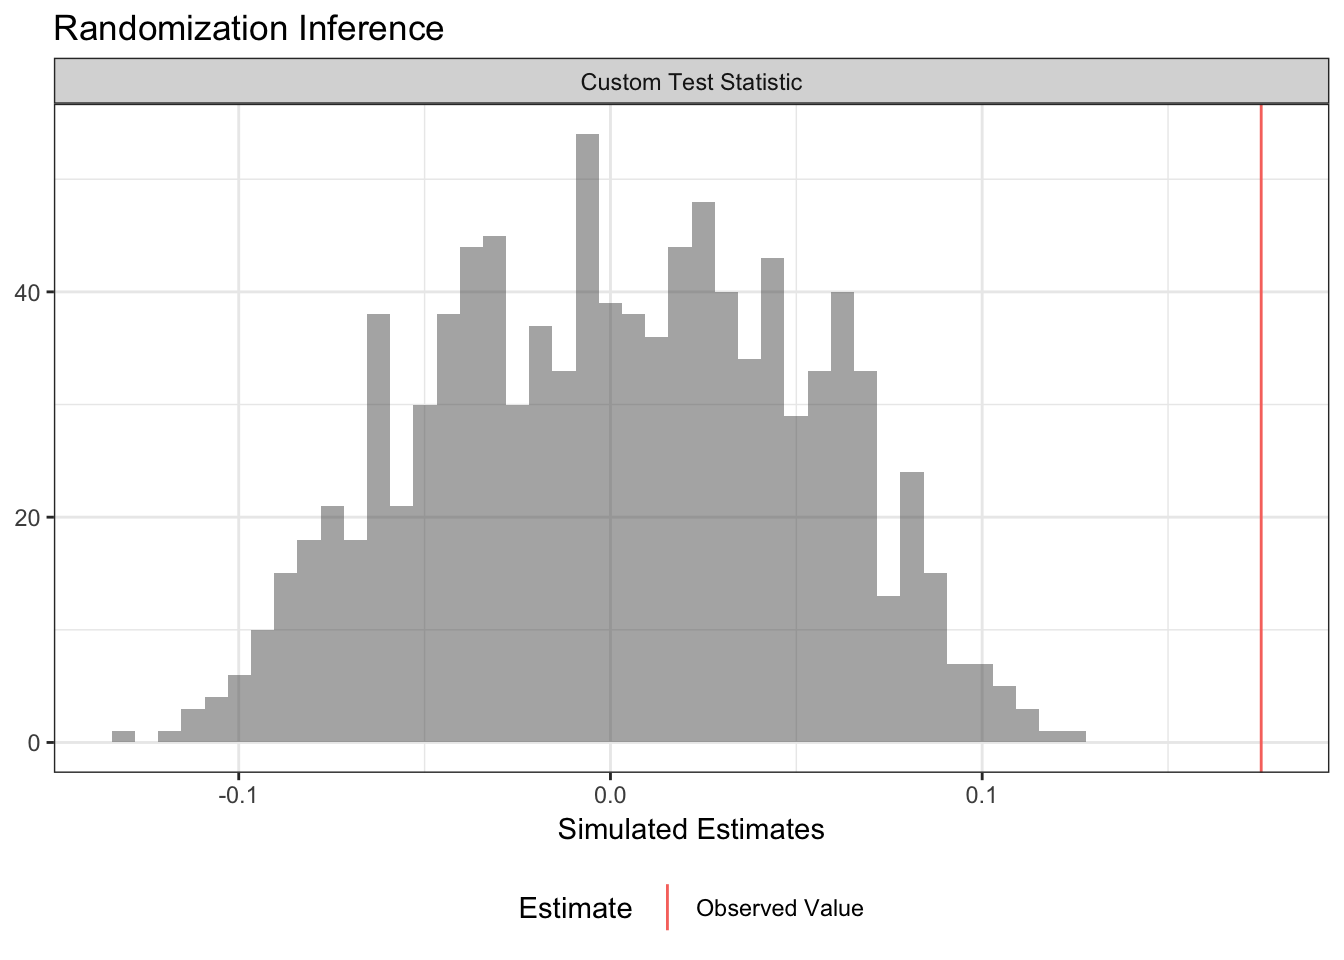
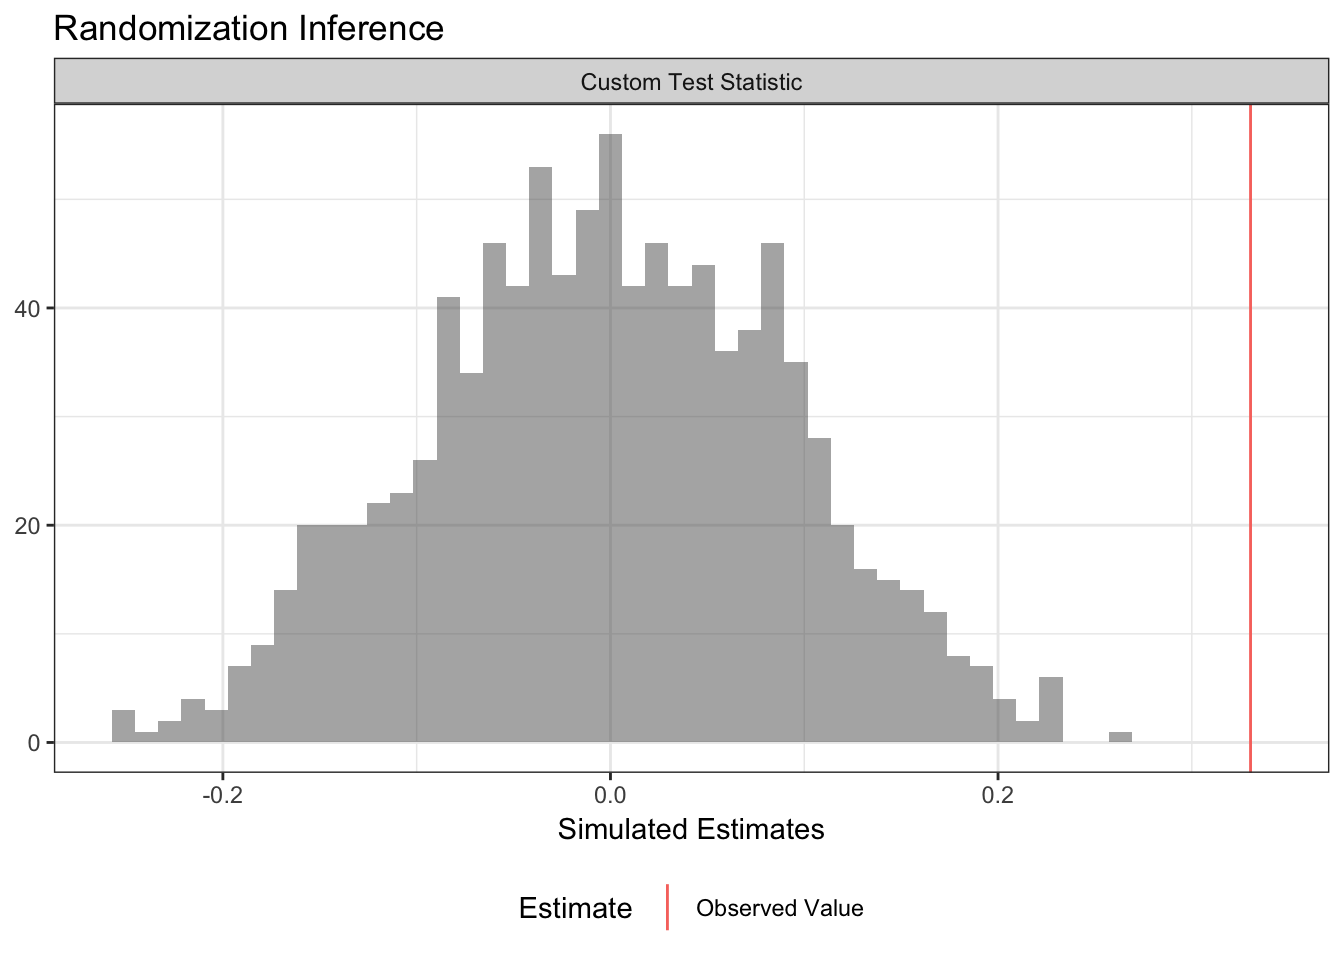
pkgdown

diff --git a/docs/articles/ri2_vignette.html b/docs/articles/ri2_vignette.html
@@ -204,9 +204,9 @@ ri2_out &lt;-
 <p><img src="ri2_vignette_files/figure-html/unnamed-chunk-4-1.png" width="672"></p>
 <div class="sourceCode"><pre class="sourceCode r"><code class="sourceCode r"><span class="kw">summary</span>(ri2_out)</code></pre></div>
 <pre><code>## # A tibble: 1 x 5
-##   coefficient estimate p_value null_ci_lower null_ci_upper
-##        &lt;fctr&gt;    &lt;dbl&gt;   &lt;dbl&gt;         &lt;dbl&gt;         &lt;dbl&gt;
-## 1 F-statistic 1.013715   0.383     0.0262644      3.842811</code></pre>
+##   coefficient   estimate p_value null_ci_lower null_ci_upper
+##        &lt;fctr&gt;      &lt;dbl&gt;   &lt;dbl&gt;         &lt;dbl&gt;         &lt;dbl&gt;
+## 1 F-statistic 0.07511485   0.929    0.03322868      3.886131</code></pre>
 <div class="sourceCode"><pre class="sourceCode r"><code class="sourceCode r"><span class="co"># for comparison</span>
 <span class="kw">anova</span>(<span class="kw">lm</span>(Y ~<span class="st"> </span><span class="dv">1</span>, <span class="dt">data =</span> df), 
       <span class="kw">lm</span>(Y ~<span class="st"> </span>Z, <span class="dt">data =</span> df))</code></pre></div>
@@ -215,8 +215,8 @@ ri2_out &lt;-
 ## Model 1: Y ~ 1
 ## Model 2: Y ~ Z
 ##   Res.Df    RSS Df Sum of Sq      F Pr(&gt;F)
-## 1     99 90.258                           
-## 2     97 88.411  2    1.8479 1.0137 0.3667</code></pre>
+## 1     99 150.70                           
+## 2     97 150.46  2   0.23303 0.0751 0.9277</code></pre>
 </div>
 <div id="interaction-terms" class="section level2">
 <h2 class="hasAnchor">
@@ -234,7 +234,7 @@ df &lt;-<span class="st"> </span><span class="kw">data.frame</span>(X, Y, Z)
 ate_hat &lt;-<span class="st"> </span><span class="kw">coef</span>(<span class="kw">lm</span>(Y ~<span class="st"> </span>Z, <span class="dt">data =</span> df))[<span class="dv">2</span>]
 ate_hat</code></pre></div>
 <pre><code>##         Z 
-## 0.1140205</code></pre>
+## 0.4274541</code></pre>
 <div class="sourceCode"><pre class="sourceCode r"><code class="sourceCode r">ri2_out &lt;-
 <span class="st">  </span><span class="kw"><a href="../reference/conduct_ri.html">conduct_ri</a></span>(
     <span class="dt">model_1 =</span> Y ~<span class="st"> </span>Z +<span class="st"> </span>X, <span class="co"># restricted model</span>
@@ -250,7 +250,7 @@ ate_hat</code></pre></div>
 <pre><code>## # A tibble: 1 x 5
 ##   coefficient estimate p_value null_ci_lower null_ci_upper
 ##        &lt;fctr&gt;    &lt;dbl&gt;   &lt;dbl&gt;         &lt;dbl&gt;         &lt;dbl&gt;
-## 1 F-statistic 8.005271   0.001   0.001855848      4.457152</code></pre>
+## 1 F-statistic 7.279862   0.022    0.00085199      6.806784</code></pre>
 <div class="sourceCode"><pre class="sourceCode r"><code class="sourceCode r"><span class="co"># for comparison</span>
 <span class="kw">anova</span>(<span class="kw">lm</span>(Y ~<span class="st"> </span>Z +<span class="st"> </span>X, <span class="dt">data =</span> df),
       <span class="kw">lm</span>(Y ~<span class="st"> </span>Z +<span class="st"> </span>X +<span class="st"> </span>Z*X, <span class="dt">data =</span> df))</code></pre></div>
@@ -258,9 +258,9 @@ ate_hat</code></pre></div>
 ## 
 ## Model 1: Y ~ Z + X
 ## Model 2: Y ~ Z + X + Z * X
-##   Res.Df    RSS Df Sum of Sq      F   Pr(&gt;F)   
-## 1     97 92.566                                
-## 2     96 85.441  1    7.1248 8.0053 0.005679 **
+##   Res.Df     RSS Df Sum of Sq      F   Pr(&gt;F)   
+## 1     97 100.996                                
+## 2     96  93.877  1    7.1189 7.2799 0.008239 **
 ## ---
 ## Signif. codes:  0 '***' 0.001 '**' 0.01 '*' 0.05 '.' 0.1 ' ' 1</code></pre>
 </div>
@@ -287,7 +287,7 @@ test_fun &lt;-<span class="st"> </span>function(data) {
 
 <span class="co"># confirm it works</span>
 <span class="kw">test_fun</span>(df)</code></pre></div>
-<pre><code>## [1] 0.1750617</code></pre>
+<pre><code>## [1] 0.3303045</code></pre>
 <div class="sourceCode"><pre class="sourceCode r"><code class="sourceCode r">ri2_out &lt;-
 <span class="kw"><a href="../reference/conduct_ri.html">conduct_ri</a></span>(
   <span class="dt">test_function =</span> test_fun,
@@ -304,7 +304,7 @@ test_fun &lt;-<span class="st"> </span>function(data) {
 <pre><code>## # A tibble: 1 x 5
 ##             coefficient  estimate p_value null_ci_lower null_ci_upper
 ##                  &lt;fctr&gt;     &lt;dbl&gt;   &lt;dbl&gt;         &lt;dbl&gt;         &lt;dbl&gt;
-## 1 Custom Test Statistic 0.1750617       0   -0.08931922    0.09008413</code></pre>
+## 1 Custom Test Statistic 0.3303045       0    -0.1796312     0.1772805</code></pre>
 </div>
 <div id="balance-test" class="section level2">
 <h2 class="hasAnchor">
@@ -328,8 +328,8 @@ balance_fun &lt;-<span class="st"> </span>function(data) {
 
 <span class="co"># Confirm it works!</span>
 <span class="kw">balance_fun</span>(df)</code></pre></div>
-<pre><code>##    value 
-## 1.534802</code></pre>
+<pre><code>##     value 
+## 0.6289607</code></pre>
 <div class="sourceCode"><pre class="sourceCode r"><code class="sourceCode r">ri2_out &lt;-
 <span class="st">  </span><span class="kw"><a href="../reference/conduct_ri.html">conduct_ri</a></span>(
   <span class="dt">test_function =</span> balance_fun,
@@ -344,9 +344,9 @@ balance_fun &lt;-<span class="st"> </span>function(data) {
 <p><img src="ri2_vignette_files/figure-html/unnamed-chunk-7-1.png" width="672"></p>
 <div class="sourceCode"><pre class="sourceCode r"><code class="sourceCode r"><span class="kw">summary</span>(ri2_out)</code></pre></div>
 <pre><code>## # A tibble: 1 x 5
-##             coefficient estimate p_value null_ci_lower null_ci_upper
-##                  &lt;fctr&gt;    &lt;dbl&gt;   &lt;dbl&gt;         &lt;dbl&gt;         &lt;dbl&gt;
-## 1 Custom Test Statistic 1.534802   0.206    0.08059371      2.936468</code></pre>
+##             coefficient  estimate p_value null_ci_lower null_ci_upper
+##                  &lt;fctr&gt;     &lt;dbl&gt;   &lt;dbl&gt;         &lt;dbl&gt;         &lt;dbl&gt;
+## 1 Custom Test Statistic 0.6289607   0.606    0.07672795      3.465091</code></pre>
 <div class="sourceCode"><pre class="sourceCode r"><code class="sourceCode r"><span class="co"># For comparison</span>
 <span class="kw">summary</span>(<span class="kw">lm</span>(Z ~<span class="st"> </span>X1 +<span class="st"> </span>X2 +<span class="st"> </span>X3, <span class="dt">data =</span> df))</code></pre></div>
 <pre><code>## 
@@ -355,20 +355,20 @@ balance_fun &lt;-<span class="st"> </span>function(data) {
 ## 
 ## Residuals:
 ##      Min       1Q   Median       3Q      Max 
-## -0.76756 -0.47923 -0.07091  0.46248  0.70067 
+## -0.65291 -0.48469  0.02257  0.48890  0.62866 
 ## 
 ## Coefficients:
-##             Estimate Std. Error t value Pr(&gt;|t|)    
-## (Intercept)  0.45038    0.10145   4.439 2.41e-05 ***
-## X1           0.01233    0.05023   0.245    0.807    
-## X2          -0.15874    0.10039  -1.581    0.117    
-## X3           0.04288    0.02664   1.610    0.111    
+##             Estimate Std. Error t value Pr(&gt;|t|)   
+## (Intercept)  0.38281    0.11417   3.353  0.00114 **
+## X1          -0.04629    0.05351  -0.865  0.38917   
+## X2           0.05515    0.10206   0.540  0.59018   
+## X3           0.03441    0.03108   1.107  0.27113   
 ## ---
 ## Signif. codes:  0 '***' 0.001 '**' 0.01 '*' 0.05 '.' 0.1 ' ' 1
 ## 
-## Residual standard error: 0.4985 on 96 degrees of freedom
-## Multiple R-squared:  0.04577,    Adjusted R-squared:  0.01595 
-## F-statistic: 1.535 on 3 and 96 DF,  p-value: 0.2105</code></pre>
+## Residual standard error: 0.5054 on 96 degrees of freedom
+## Multiple R-squared:  0.01928,    Adjusted R-squared:  -0.01137 
+## F-statistic: 0.629 on 3 and 96 DF,  p-value: 0.5981</code></pre>
 </div>
 </div>
 <div id="conclusion" class="section level1">

diff --git a/docs/reference/index.html b/docs/reference/index.html
@@ -111,25 +111,6 @@
         <tr>
           <!--  -->
           <td>
-            <p><code><a href="conduct_conditional_ra.html">conduct_conditional_ra</a></code> </p>
-          </td>
-          <td><p>#' Conduct Conditional Random Assignment
-#'
-#' Conditional random assignment is useful when conducting randomization inference in multi-arm trials. When conducting a hypothesis test under a sharp null hypothesis for a *pairwise* comparison, we want to consider only random assignments in which units assigned to *other* conditions remain in their original condidtions.
-#'
-#' For example, in a three-arm trial in which we want to conduct a hypothesis test under the sharp null hypothesis of exactly no difference in potential outcomes between conditions T1 and T2, we want to permute the random assignment for units that were assigned to T1 and T2, but we want to leave units assigned to T3 alone. We do this because our sharp null hypothesis does not say anything about potential outcomes under T3, so we do not want to have to imagine what the potential outcomes for units assigned to T3 *would have been* under alternative assignments.
-#'
-#' @param declaration A random assignment declaration, created by <code>declare_ra</code>.
-#' @param assignment_vec A vector of length N indicating the treatment conditions to which units were assigned.
-#' @param conditions A character vector of length 2 indicating which treatment conditions are to be permuted.
-#'
-#' @return
-#' @export
-#'
-#' @examples</p></td>
-        </tr><tr>
-          <!--  -->
-          <td>
             <p><code><a href="conduct_ri.html">conduct_ri</a></code> </p>
           </td>
           <td><p>Conduct Randomization Inference</p></td>

diff --git a/docs/index.html b/docs/index.html
@@ -108,9 +108,9 @@ ri_out &lt;-
 <p><img src="README-unnamed-chunk-3-1.png" width="672"></p>
 <div class="sourceCode"><pre class="sourceCode r"><code class="sourceCode r"><span class="kw">summary</span>(ri_out)
 <span class="co">#&gt; # A tibble: 1 x 5</span>
-<span class="co">#&gt;   coefficient  estimate p_value null_ci_lower null_ci_upper</span>
-<span class="co">#&gt;         &lt;chr&gt;     &lt;dbl&gt;   &lt;dbl&gt;         &lt;dbl&gt;         &lt;dbl&gt;</span>
-<span class="co">#&gt; 1           Z 0.3099899   0.307    -0.5365926     0.5838292</span></code></pre></div>
+<span class="co">#&gt;   coefficient   estimate p_value null_ci_lower null_ci_upper</span>
+<span class="co">#&gt;         &lt;chr&gt;      &lt;dbl&gt;   &lt;dbl&gt;         &lt;dbl&gt;         &lt;dbl&gt;</span>
+<span class="co">#&gt; 1           Z 0.03696714   0.899    -0.5269656     0.5271363</span></code></pre></div>
 <p>The development of ri2 is supported by a Standards Grant from <a href="http://egap.org">EGAP</a>.</p>
 </div>
   </div>

diff --git a/README.md b/README.md
@@ -52,9 +52,9 @@ plot(ri_out)
 ``` r
 summary(ri_out)
 #> # A tibble: 1 x 5
-#>   coefficient  estimate p_value null_ci_lower null_ci_upper
-#>         <chr>     <dbl>   <dbl>         <dbl>         <dbl>
-#> 1           Z 0.1333054   0.563    -0.4648467     0.4498284
+#>   coefficient   estimate p_value null_ci_lower null_ci_upper
+#>         <chr>      <dbl>   <dbl>         <dbl>         <dbl>
+#> 1           Z -0.3115602   0.309    -0.6334962     0.5842738
 ```
 
 The development of ri2 is supported by a Standards Grant from [EGAP](http://egap.org).
